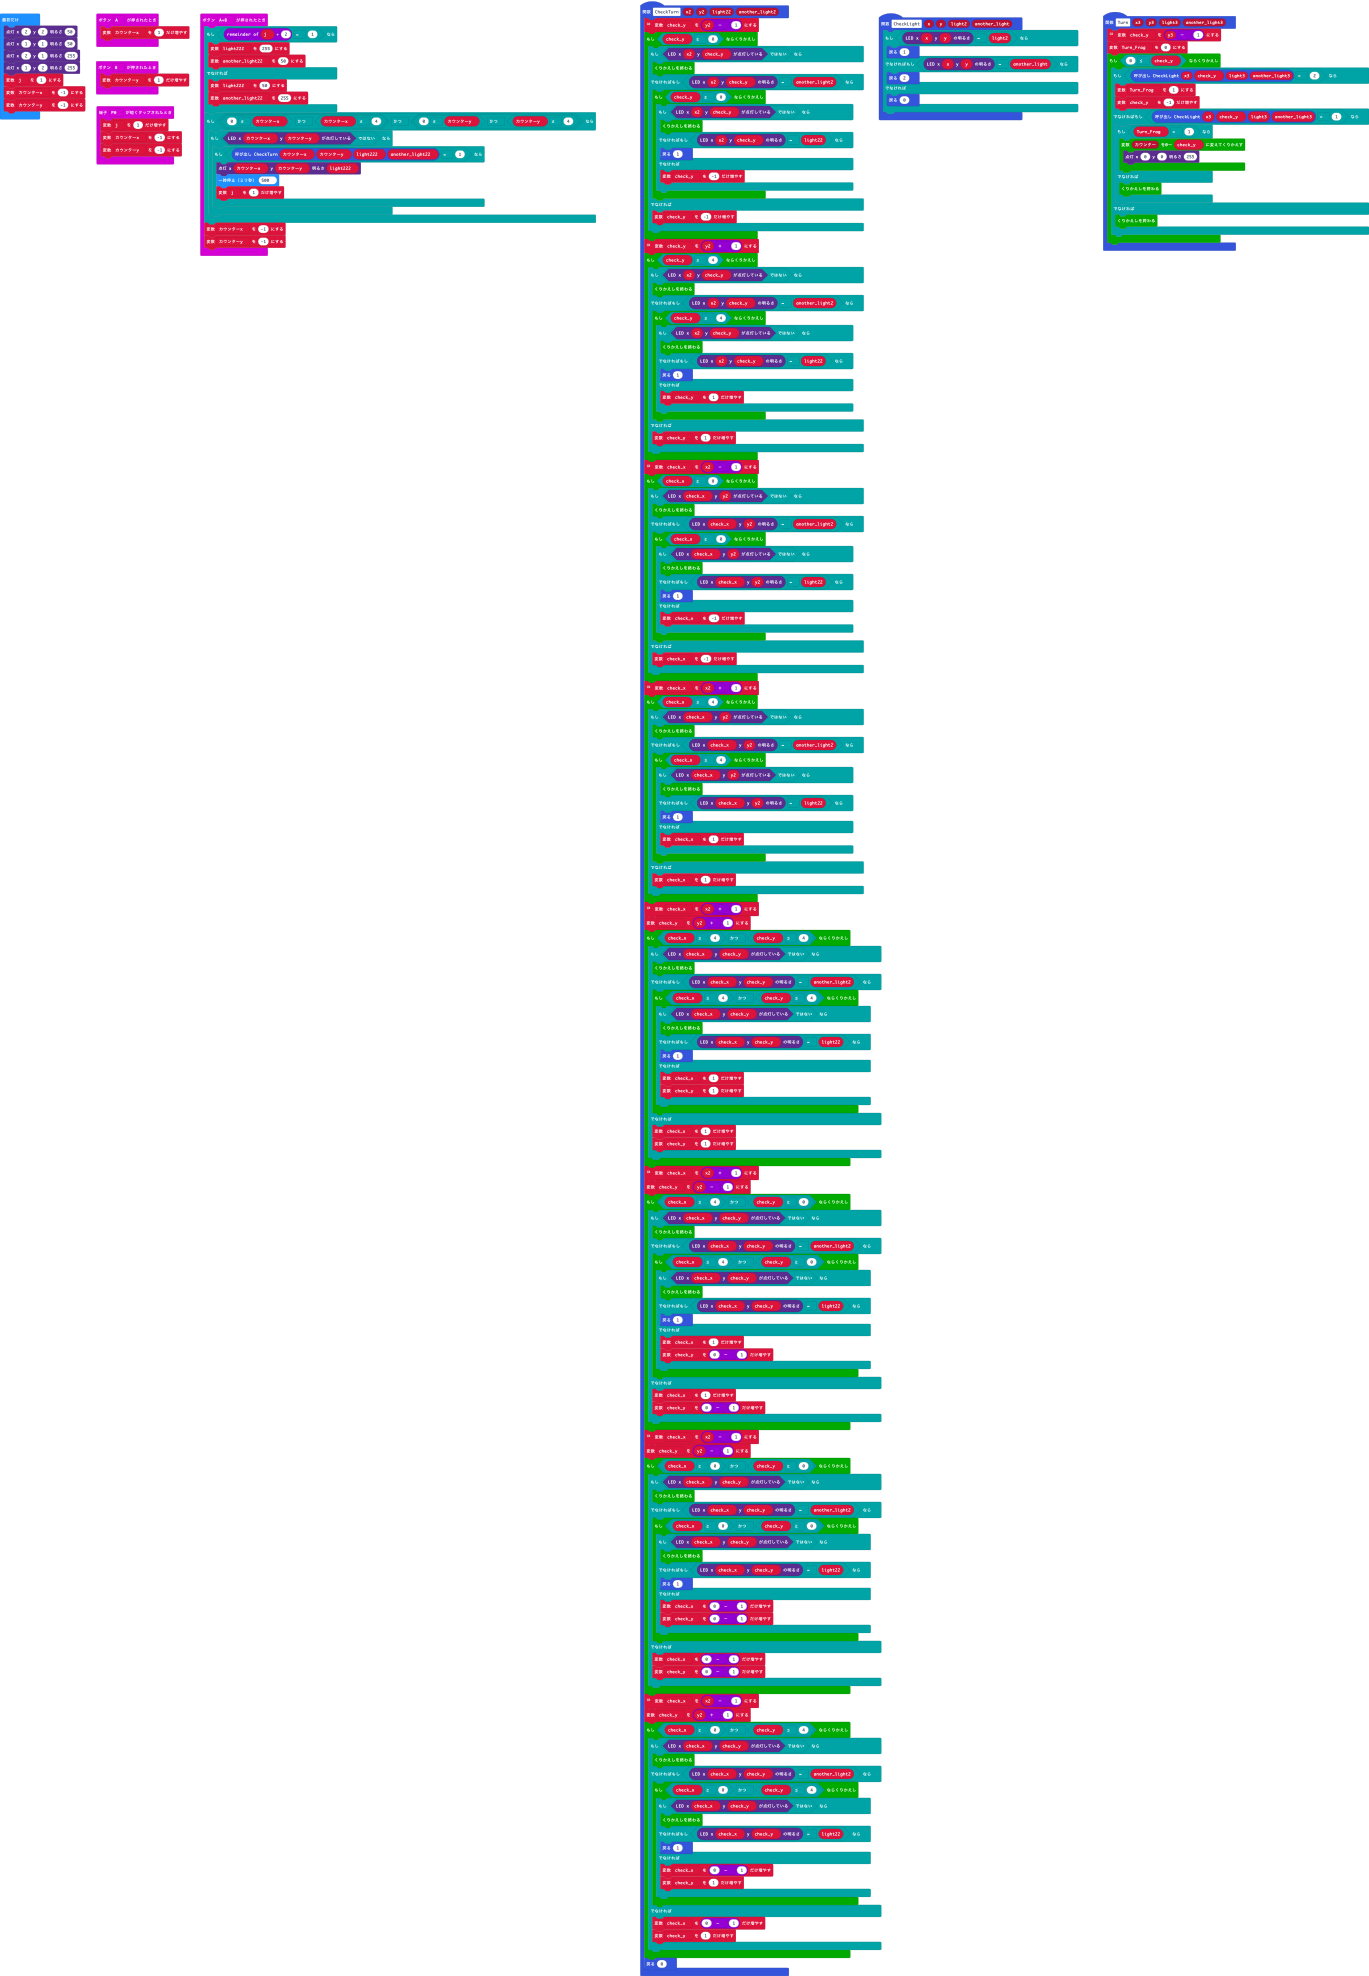
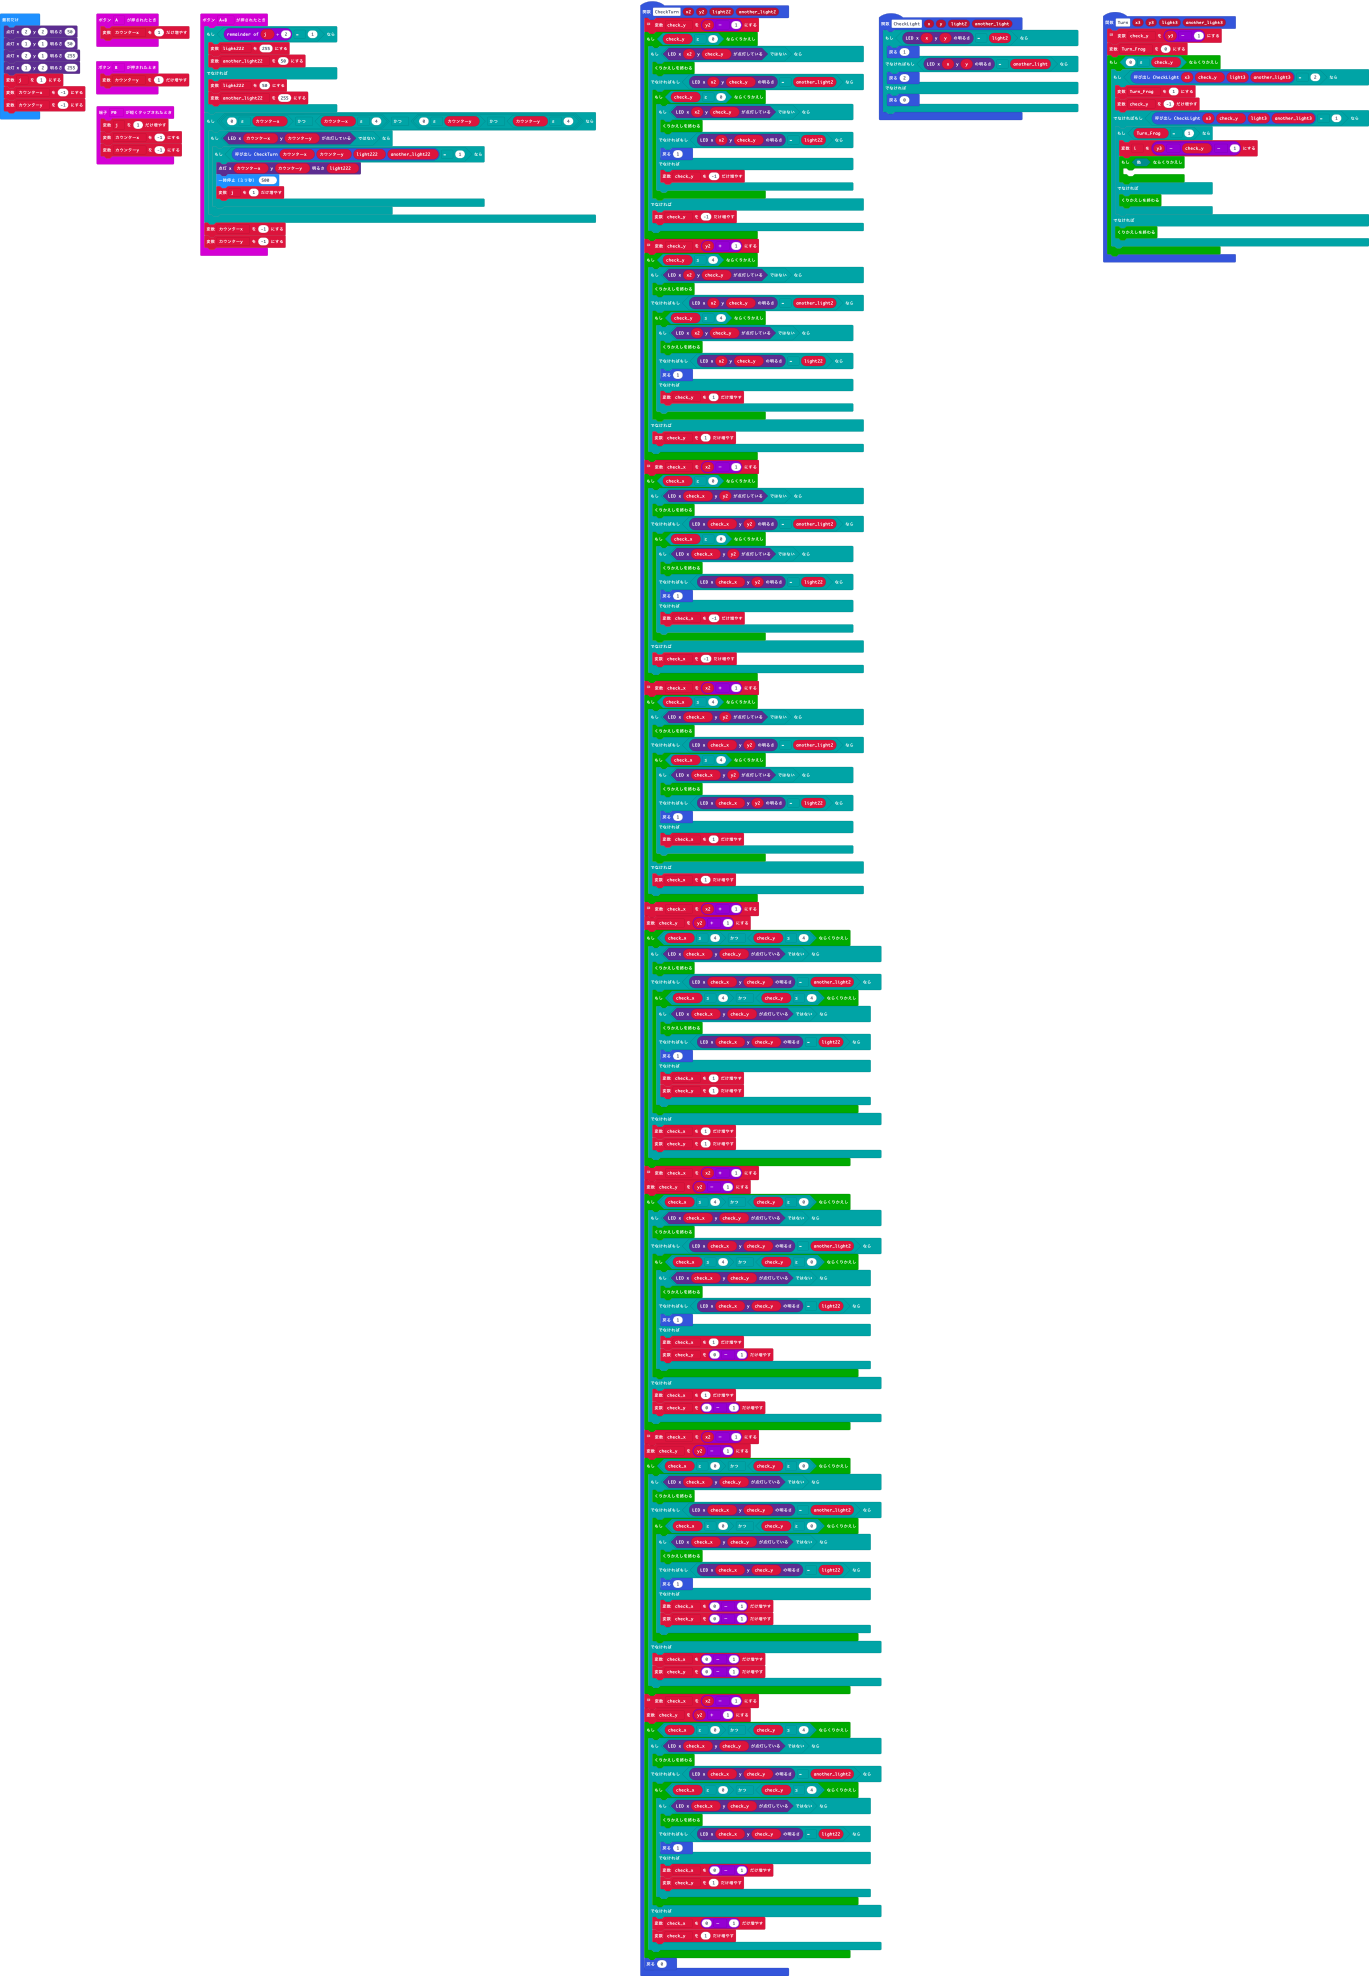
更新 main.blocks, main.ts

Changed region(s): [[0.7977, 0.0, 1.0, 0.1544]]

diff --git a/main.ts b/main.ts
@@ -192,8 +192,9 @@ function Turn (x3: number, y3: number, light3: number, another_light3: number) {
             check_y += -1
         } else if (CheckLight(x3, check_y, light3, another_light3) == 1) {
             if (Turn_Frag == 1) {
-                for (let カウンター = 0; カウンター <= check_y; カウンター++) {
-                    led.plotBrightness(0, 0, 255)
+                i = y3 - check_y - 1
+                while (false) {
+                	
                 }
             } else {
                 break;
@@ -228,6 +229,7 @@ input.onButtonPressed(Button.B, function () {
 })
 let another_light22 = 0
 let light222 = 0
+let i = 0
 let Turn_Frag = 0
 let check_x = 0
 let check_y = 0
